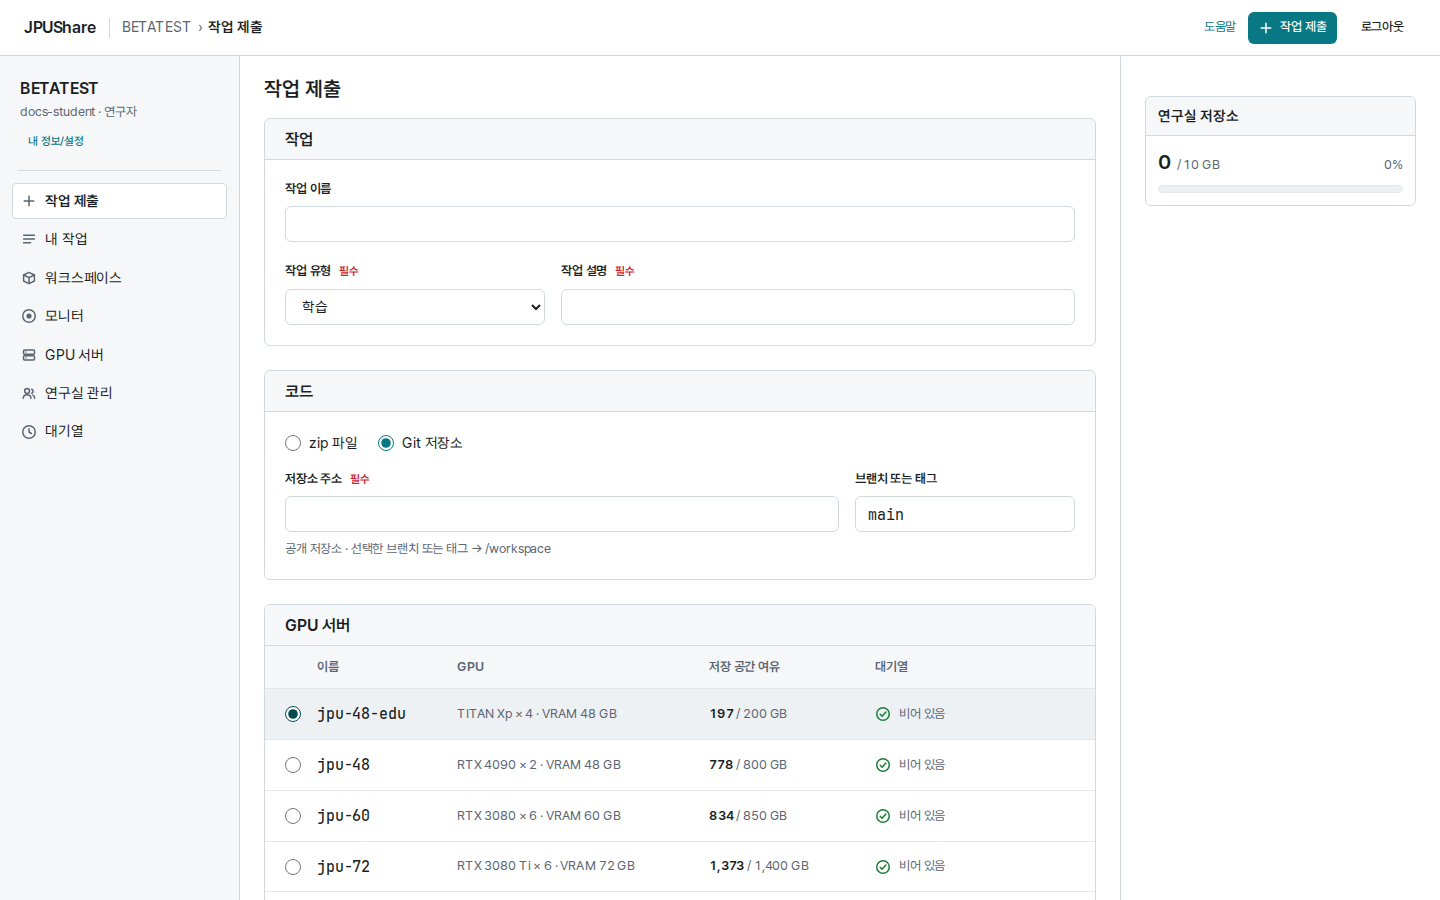
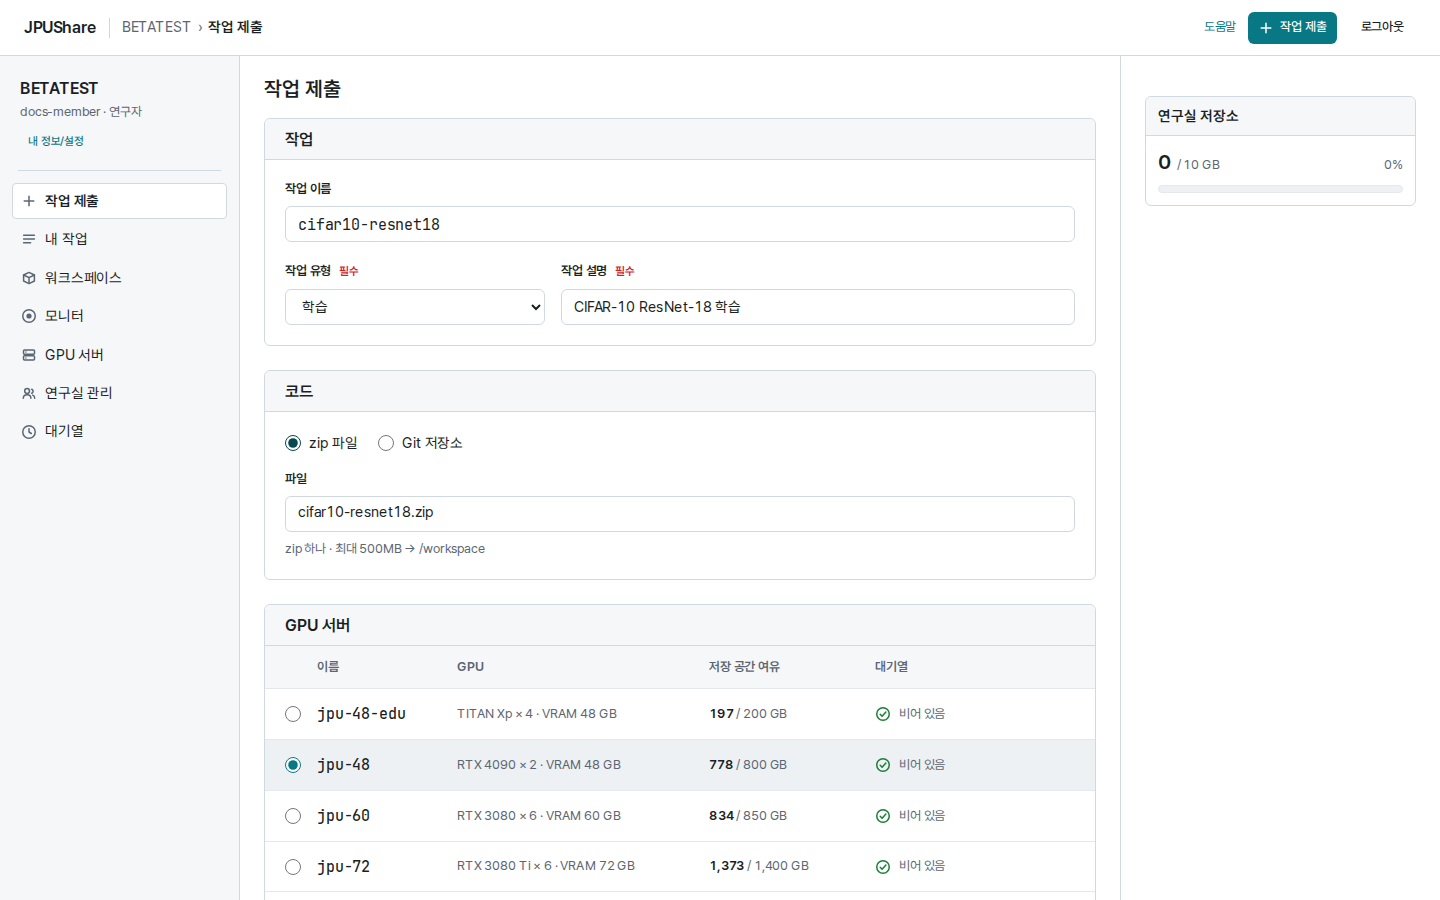
docs(JPUShare): 예시 사진을 정상 흐름으로 교체 — 실패 작업·테스트 폴더 대신 캡처 전용 계정의 CIFAR-10 ResNet-18 학습(성공 3건), 실행 판 호환 안내 줄은 글로; 결과 30일 정리는 연구실 공유·내 폴더 모두(서버 동작대로)

diff --git a/skills/jpushare/SKILL.md b/skills/jpushare/SKILL.md
@@ -77,7 +77,7 @@ curl --fail-with-body "$BASE/v1/me" -H "Authorization: Bearer $JPUSHARE_API_KEY"
 | `scope` | `folder` | 용도 |
 |---|---|---|
 | `shared` | `data` | 연구실 공유 데이터(작업 입력) |
-| `shared` | `result` | 연구실 공유 결과 |
+| `shared` | `result` | 연구실 공유 결과(`results/<작업 ID>/` 폴더, 작업이 끝나고 30일 뒤 정리) |
 | `private` | `data` | 나만 보는 데이터 |
 | `private` | `result` | 나만 보는 결과(작업 ID 폴더, 작업이 끝나고 30일 뒤 정리) |
 
